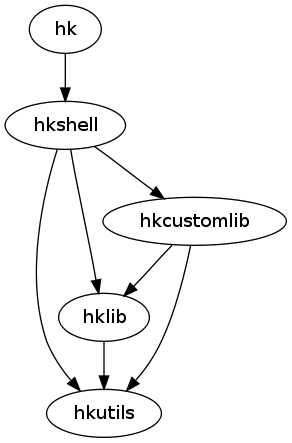
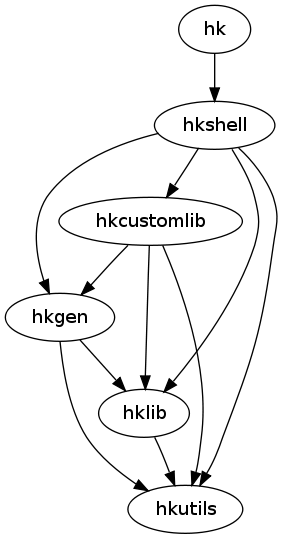
doc: updated for the new Generator and 0.4
[new generator]

diff --git a/doc/architecture.rst b/doc/architecture.rst
@@ -7,8 +7,8 @@ few sentences. Then the tasks of the most important classes and functions are
 explained. Finally it talks about the dependencies between the modules.
 
 This section does not contain a detailed descriptions of the modules, classes
-and functions: these descriptions can be found in the user documentation and
-developer documentation of the modules.
+and functions: these descriptions can be found in the documentation of the
+modules.
 
 Module structure
 ----------------
@@ -20,21 +20,37 @@ the file ``<module>.py``.
     Contains general library classes and functions.
 :mod:`hklib`
     The database and business logic of Heapkeeper. Its classes can
-    download, store, and modify posts and generate HTML from them.
+    download, store, and modify posts.
+:mod:`hkgen`
+    It generates HTML output from the posts on the heaps.
 :mod:`hkshell`
     The interactive interface of Heapkeeper.
+:mod:`hk`
+    A small module whose only task is to invoke :mod:`hkshell`.
 :mod:`hkcustomlib`
     Contains functions and classes that are useful for the parametrization of
     functions in other modules (especially functions of :mod:`hklib` and
     :mod:`hkshell`).
+:mod:`issue_tracker`
+    Generates HTML output that is like an issue tracker.
+:mod:`hkrc_*`
+    Initialization files of the developers. These module are not really part of
+    Heapkeeper, but are kept in the Heapkeeper repository so that developers
+    and users can learn from them, and developers can test if they break each
+    other's hkrc.
 
 The central modules are :mod:`hklib` and :mod:`hkshell`. The former contains
 the core functionality of Heapkeeper, while the latter provides the primary
-user interface. The general library functions that are not related to the
-concepts of Heapkeeper are collected in :mod:`hkutils`. Heapkeeper is a very
-customizable tool: it can be customized primarily by writing Python functions.
-The functions and classes of :mod:`hkcustomlib` help to implement these
-custom functions.
+user interface. :mod:`hkgen` is also an important module, it generates HTML
+pages from the post database. The general library functions that are not
+related to the concepts of Heapkeeper are collected in :mod:`hkutils`.
+
+Heapkeeper is a very customizable tool. :mod:`hkshell` can be customized
+primarily by writing Python functions. The functions and classes of
+:mod:`hkcustomlib` help to implement these custom functions. :mod:`hkgen` can
+be customized by deriving own generator classes from the one in :mod:`hkgen`
+and overriding some of its method. The :mod:`issue_tracker` is an example of
+such a derived generator.
 
 We use unit tests to test Heapkeeper's code, using the standard ``unittest``
 module. Each module has a corresponding module that tests it.
@@ -53,15 +69,12 @@ module. Each module has a corresponding module that tests it.
 Module contents
 ---------------
 
-Some objects will be renamed. The proposed new name of these objects is
-written after their name in parens.
-
 :mod:`hklib`
 ^^^^^^^^^^^^
 
 The main concept of Heapkeeper is the *heap*. The heap is an abstract data
-structure that consists of *posts*. The heap data structure and its
-visualization in HTML is implemented in the :mod:`hklib` module.
+structure that consists of *posts*. The heap data structure is implemented in
+the :mod:`hklib` module.
 
 Classes that implement and manipulate the heap
 """"""""""""""""""""""""""""""""""""""""""""""
@@ -187,66 +200,6 @@ that implements a relational database, e.g. MySQL:
 | :class:`PostSet <hklib.PostSet>` | result of a query       |
 +----------------------------------+-------------------------+
 
-Classes that visualize the heap
-"""""""""""""""""""""""""""""""
-
-The content of the heap can be visualized by converting it to HTML pages.
-(The word *page* means HTML page in this context.) Heapkeeper can create two
-kinds of pages:
-
-* A *post page* displays one post. It usually contains a *post summary* and the
-  post's body. The post summary consists of a few important details of the
-  post, e.g. author, subject and date. Posts may have different summaries at
-  different places, and different summaries may include different details.
-* An *index page* displays many posts. It does not show the body of the
-  posts, it only shows a post summary for each post, which is a link to the
-  *post page* of that post. An index page is created from an *index* (an
-  :class:`Index <hklib.Index>` object), which descibres which posts should
-  be printed on the index page and how. An index contains the posts indirectly:
-  it contains sections, and the sections contain posts. A *section* (a
-  :class:`Section <hklib.Section>` object) is a list of posts that should
-  be printed as one section of the page, and a few options on how they should
-  be printed. An index page contains sections generated from the sections of
-  the index.
-
-:class:`hklib.Html`
-
-    The :class:`Html <hklib.Html>` class is rather a namespace than a
-    class: it contains only static methods. :class:`Html <hklib.Html>`
-    objects are never created.
-
-:class:`hklib.Section`
-
-    A :class:`Section <hklib.Section>` is a list of posts. The
-    :class:`hklib.Generator` class can generate HTML from a section by
-    printing the summaries of its posts in either a threaded or a non-threaded
-    (*flat*) structure.
-
-:class:`hklib.Index`
-
-    todo
-
-:class:`hklib.GeneratorOptions`
-
-    todo
-
-:class:`hklib.Generator`
-
-    A :class:`Generator <hklib.Generator>` object generates HTML strings
-    and HTML pages.
-
-    Most of its methods generate an HTML string that represents something,
-    which is usually shown in the name of the method. E.g. the
-    :func:`Generator.post <hklib.Generator.post>` method generates HTML
-    string from a post, while the :func:`Generator.section
-    <hklib.Generator.section>` method generates HTML string from a section.
-
-    The minority of the :class:`Generator <hklib.Generator>` methods print
-    the HTML they generate into files. These methods start with the ``gen_``
-    prefix. E.g. the :func:`Generator.gen_indices
-    <hklib.Generator.gen_indices>` method prints the index pages into index
-    files.
-
 :mod:`hkshell`
 ^^^^^^^^^^^^^^
 
@@ -265,11 +218,13 @@ The module dependencies are shown in the following picture:
 .. image:: images/module_deps.png
 
 Since :mod:`hkutils` contains general library functions, it does not use any
-other modules of Heapkeeper, but all the other modules may use it. Both
-:mod:`hkshell` and :mod:`hkcustomlib` use :mod:`hklib`, since
+other modules of Heapkeeper, but all the other modules may use it.
+:mod:`hkshell`, :mod:`hkgen` and :mod:`hkcustomlib` all use :mod:`hklib`, since
 :mod:`hklib` implements the data types that make the heap. :mod:`hkshell`
 uses :mod:`hkcustomlib` only for setting sensible default values for certain
-callback functions.
+callback functions. :mod:`hkcustomlib` implements a callback function to
+generate posts that invokes :mod:`hkgen`, but sometimes :mod:`hkshell` calls
+into :mod:`hkgen` directly.
 
 .. _testing:
 
@@ -278,7 +233,8 @@ Testing
 
 We use unit tests to test Heapkeeper's code, using the standard ``unittest``
 module. Each module has a corresponding module that tests it. Our aim is to
-reach almost 100% line coverage. (Currently we are far from that.)
+reach almost 100% statement coverage. (Currently we have 74%, measured with
+``coverage.py``.)
 
 All tests can be executed using the :mod:`test` module:
 

diff --git a/doc/status.rst b/doc/status.rst
@@ -9,9 +9,10 @@ This page describes the status of the project's components.
   things which could be done to make it more convenient. The source code is
   constantly in a good shape, all commits in the repository since May should
   work fine.
-- Tests: we aim for 100% code coverage. We don't have that now, but we have
-  3100 lines of test code for 6500 lines of normal code. All test pass in all
-  commits since May.
+- Tests: we aim for 100% code coverage. We have currently 74% statement
+  coverage (measured with ``coverage.py``). We have 3152 lines of test code
+  for 4698 lines of normal code (not counting the issue tracker and the
+  hkrcs). All test pass in all commits since May 2009.
 - Documentation: There are three important parts of Heapkeeper's documentation:
   the user documentation, the module documentation and the developer
   documentation. The user documentation consists of a single :doc:`tutorial`
@@ -19,14 +20,14 @@ This page describes the status of the project's components.
   write a page about the customization of Heapkeeper, and also a cookbook. The
   module documentation mainly consists of the docstrings of classes and
   functions, which is written into the source code. This is complete and
-  up-to-date for |hkutils|, |hkshell| and |hkcustomlib|, but it is not ready
-  for |hklib|, which is the largest module of all. The developer documentation,
-  which describes the ideas and main concepts of Heapkeeper at a higher level,
-  is also quite incomplete.
+  up-to-date (again, we don't count the issue tracker and the hkrcs). The
+  developer documentation, which describes the ideas and main concepts of
+  Heapkeeper at a higher level, is quite incomplete, but fortunately
+  up-to-date.
 - Homepage: The non-documentation part of the homepage is fine for now. We
   could improve the web page design by making a custom theme though.
 - Workflow: our workflow has gone stable with the release of 0.3. We
   strongly rely on Git in continuous integration of bugfixes and new
   features into mature code.
 
-23th October, 2009
+28th January, 2010

diff --git a/doc/keyprinciples.rst b/doc/keyprinciples.rst
@@ -9,6 +9,6 @@ User experience
 
 * If the body of a post is copied from the HTML page and pasted somewhere,
   the result is exactly the body of the post as stored in the mail file.
-* The static HTML file generated from a post, from a thread or from an index
-  depends only on the mail database. It does not depend on what other posts,
-  threads or indices are generated and how.
+* The static HTML file generated from the post database depends only on the
+  generator, the options it received and the post database. It does not depend
+  on what other pages are generated and how.

diff --git a/doc/screenshots.rst b/doc/screenshots.rst
@@ -48,7 +48,7 @@ An index page of a heap:
 .. image:: images/1.png
       :align: center
 
-HTML page of a post:
+HTML page of a thread:
 
 .. image:: images/2.png
       :align: center

diff --git a/doc/modules.rst b/doc/modules.rst
@@ -4,8 +4,8 @@ Module documentation
 .. toctree::
 
    hkutils
-   hkcustomlib
    hklib
    hkgen
+   hkcustomlib
    hkshell
    hk
